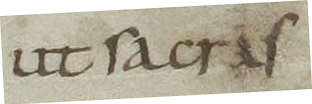
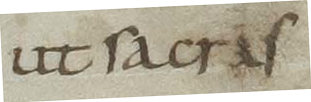
add the constrast and elastic

diff --git a/elastic-def.py b/elastic-def.py
@@ -1,0 +1,84 @@
+import cv2
+import numpy as np
+from scipy.ndimage import gaussian_filter
+
+def deformacion_elastica(ruta_imagen, ruta_salida, alpha=30, sigma=8, seed=None):
+    """
+    Aplica una deformación elástica suave a una imagen.
+    
+    Parámetros:
+    - ruta_imagen: Ruta de la imagen de entrada.
+    - ruta_salida: Ruta donde se guardará la imagen modificada.
+    - alpha: Magnitud de la deformación (en píxeles). Valores típicos: 20-50.
+             Valores muy altos distorsionan demasiado las letras.
+    - sigma: Suavidad de la deformación (en píxeles). Valores típicos: 5-10.
+             Valores altos = deformación muy suave y global.
+             Valores bajos = deformación más local y ondulada.
+    - seed: Semilla aleatoria para reproducibilidad (opcional).
+    """
+    
+    # Establecer semilla si se proporciona (útil para reproducir resultados)
+    if seed is not None:
+        np.random.seed(seed)
+    
+    # 1. Leer la imagen
+    imagen = cv2.imread(ruta_imagen)
+    if imagen is None:
+        print(f"Error: No se pudo cargar la imagen en {ruta_imagen}")
+        return
+    
+    alto, ancho = imagen.shape[:2]
+    print(f"Dimensiones de la imagen: {ancho}x{alto}")
+    print(f"Parámetros: alpha={alpha}, sigma={sigma}")
+
+    # 2. Generar campos de desplazamiento aleatorios
+    # dx: desplazamiento en el eje X
+    # dy: desplazamiento en el eje Y
+    dx = np.random.uniform(-1, 1, (alto, ancho)).astype(np.float32) * alpha
+    dy = np.random.uniform(-1, 1, (alto, ancho)).astype(np.float32) * alpha
+
+    # 3. Suavizar los campos con un filtro gaussiano
+    # Esto es lo que hace que la deformación sea "elástica" y no ruido puro
+    dx = gaussian_filter(dx, sigma=sigma, mode="constant", cval=0)
+    dy = gaussian_filter(dy, sigma=sigma, mode="constant", cval=0)
+
+    # 4. Crear las mallas de coordenadas (grid) para el mapeo
+    x, y = np.meshgrid(np.arange(ancho), np.arange(alto))
+    
+    # 5. Aplicar los desplazamientos a las coordenadas originales
+    # map_x: coordenada X de origen para cada píxel del destino
+    # map_y: coordenada Y de origen para cada píxel del destino
+    map_x = (x + dx).astype(np.float32)
+    map_y = (y + dy).astype(np.float32)
+
+    # 6. Aplicar la transformación con cv2.remap
+    # INTER_CUBIC mantiene buena calidad en texto
+    # BORDER_REPLICATE rellena los bordes con el color del píxel más cercano
+    imagen_deformada = cv2.remap(
+        imagen,
+        map_x,
+        map_y,
+        interpolation=cv2.INTER_CUBIC,
+        borderMode=cv2.BORDER_REPLICATE
+    )
+
+    # 7. Guardar el resultado
+    cv2.imwrite(ruta_salida, imagen_deformada)
+    print(f"Imagen guardada en: {ruta_salida}")
+
+    # Opcional: Mostrar comparación
+    # cv2.imshow('Original', imagen)
+    # cv2.imshow('Deformacion Elastica', imagen_deformada)
+    # cv2.waitKey(0)
+    # cv2.destroyAllWindows()
+
+
+# --- Ejecución ---
+if __name__ == "__main__":
+    archivo_entrada = "word.png"
+    archivo_salida = "word_elastico.png"
+    
+    # Llamar a la función con parámetros suaves
+    # alpha=30: desplazamiento máximo de 30 píxeles
+    # sigma=8: deformación muy suave (ideal para no romper las letras)
+    deformacion_elastica(archivo_entrada, archivo_salida, alpha=30, sigma=8)

diff --git a/contraste.py b/contraste.py
@@ -1,0 +1,57 @@
+import cv2
+import numpy as np
+import random
+
+def cambiar_contraste_aleatorio(ruta_imagen, ruta_salida, rango_contraste=(0.7, 1.3), rango_brillo=(-20, 20)):
+    """
+    Aplica un cambio de contraste y brillo aleatorio a una imagen.
+    
+    Parámetros:
+    - ruta_imagen: Ruta de la imagen de entrada.
+    - ruta_salida: Ruta donde se guardará la imagen modificada.
+    - rango_contraste: Tupla (min, max) para el factor de contraste. 
+                       1.0 es el original. <1.0 disminuye, >1.0 aumenta.
+    - rango_brillo: Tupla (min, max) para el valor de brillo a sumar/restar.
+                    Valores negativos oscurecen, positivos aclaran.
+    """
+    
+    # 1. Leer la imagen
+    imagen = cv2.imread(ruta_imagen)
+    if imagen is None:
+        print(f"Error: No se pudo cargar la imagen en {ruta_imagen}")
+        return
+
+    # 2. Generar valores aleatorios
+    # alpha controla el contraste (1.0 = sin cambios)
+    alpha = random.uniform(rango_contraste[0], rango_contraste[1])
+    # beta controla el brillo (0 = sin cambios)
+    beta = random.uniform(rango_brillo[0], rango_brillo[1])
+    
+    print(f"Factor de contraste (alpha): {alpha:.2f}")
+    print(f"Valor de brillo (beta): {beta:.2f}")
+
+    # 3. Aplicar la transformación
+    # La fórmula es: nueva_imagen = alpha * imagen_original + beta
+    # cv2.convertScaleAbs se asegura de que los valores se mantengan en el rango 0-255
+    # y convierte el resultado a valores absolutos de 8 bits.
+    imagen_ajustada = cv2.convertScaleAbs(imagen, alpha=alpha, beta=beta)
+
+    # 4. Guardar el resultado
+    cv2.imwrite(ruta_salida, imagen_ajustada)
+    print(f"Imagen guardada en: {ruta_salida}")
+
+    # Opcional: Mostrar comparación
+    # cv2.imshow('Original', imagen)
+    # cv2.imshow('Contraste Aleatorio', imagen_ajustada)
+    # cv2.waitKey(0)
+    # cv2.destroyAllWindows()
+
+# --- Ejecución ---
+if __name__ == "__main__":
+    # Reemplaza estos nombres con los de tu archivo real
+    archivo_entrada = "word.png" 
+    archivo_salida = "word_contraste.png"
+    
+    # Llamar a la función
+    # Un rango de contraste de 0.7 a 1.3 significa que puede reducir el contraste un 30% o aumentarlo un 30%
+    cambiar_contraste_aleatorio(archivo_entrada, archivo_salida, rango_contraste=(0.7, 1.3), rango_brillo=(-15, 15))
